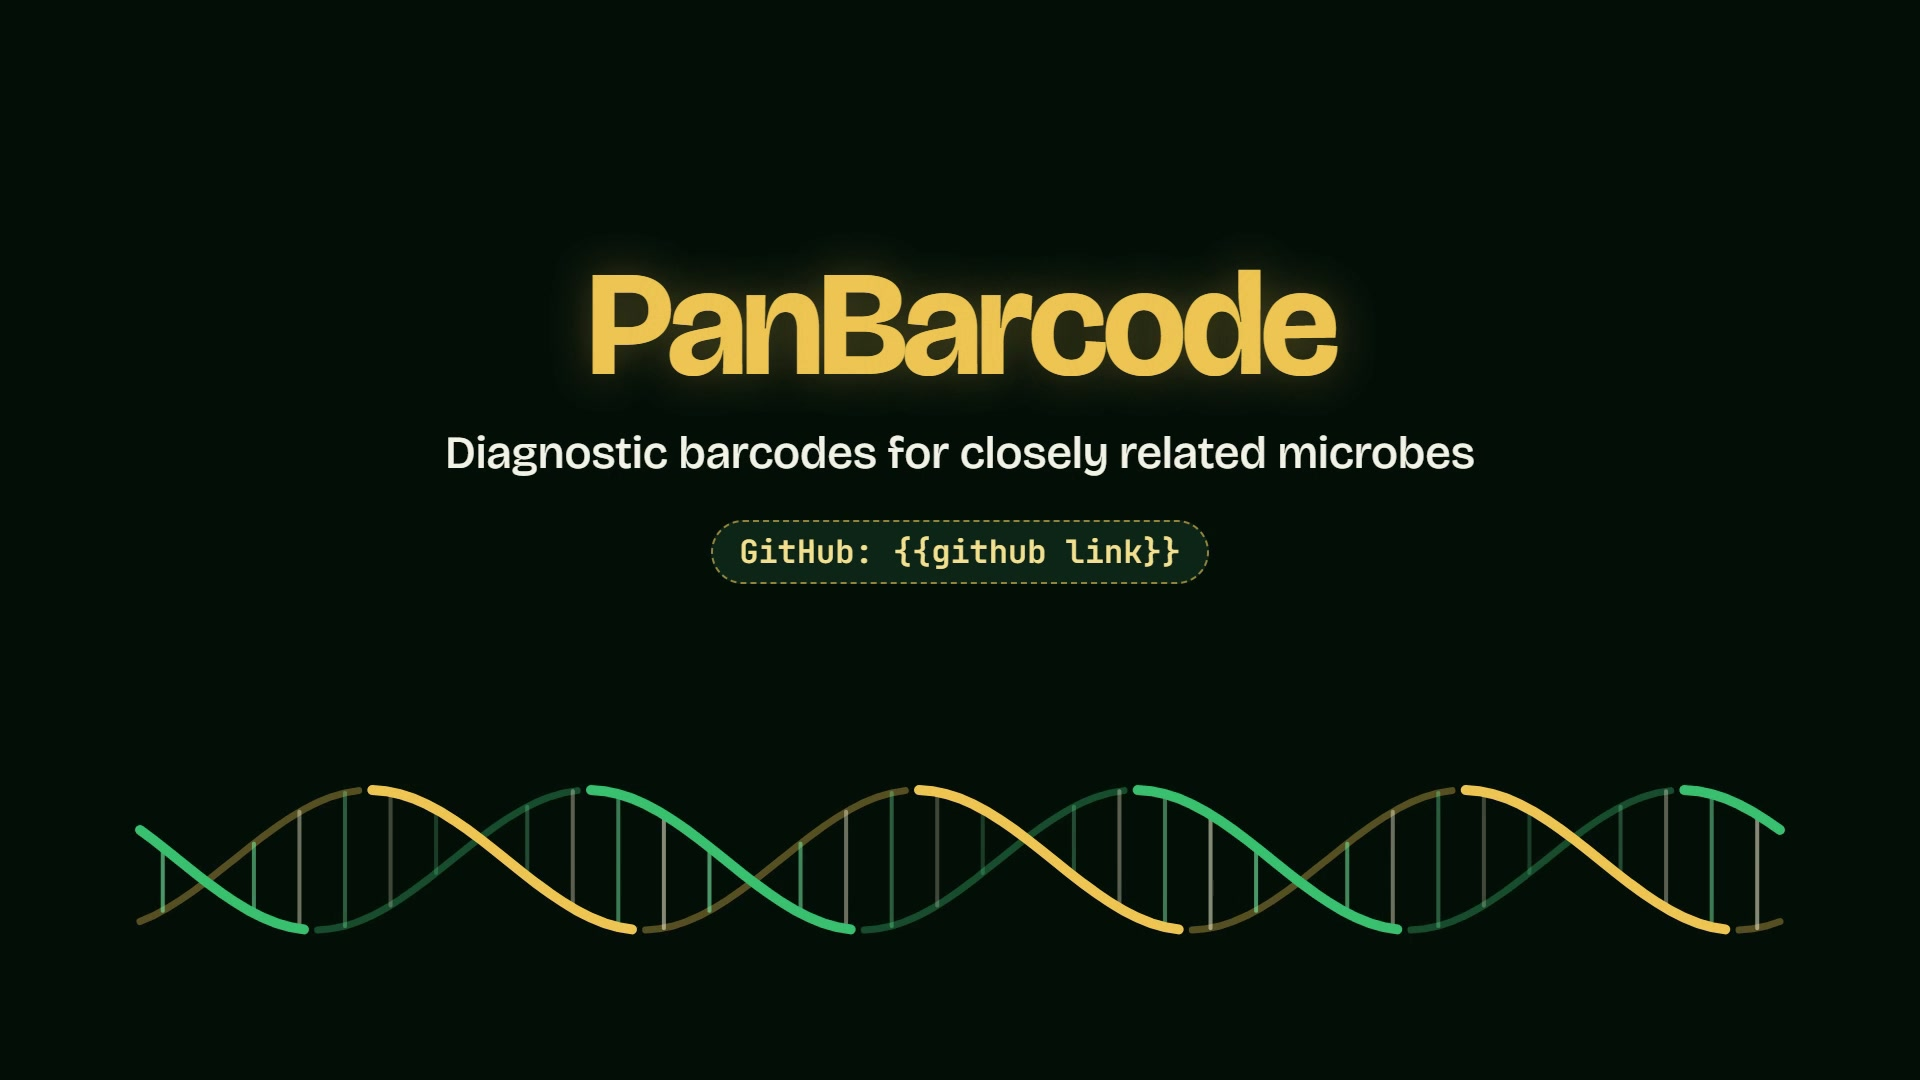
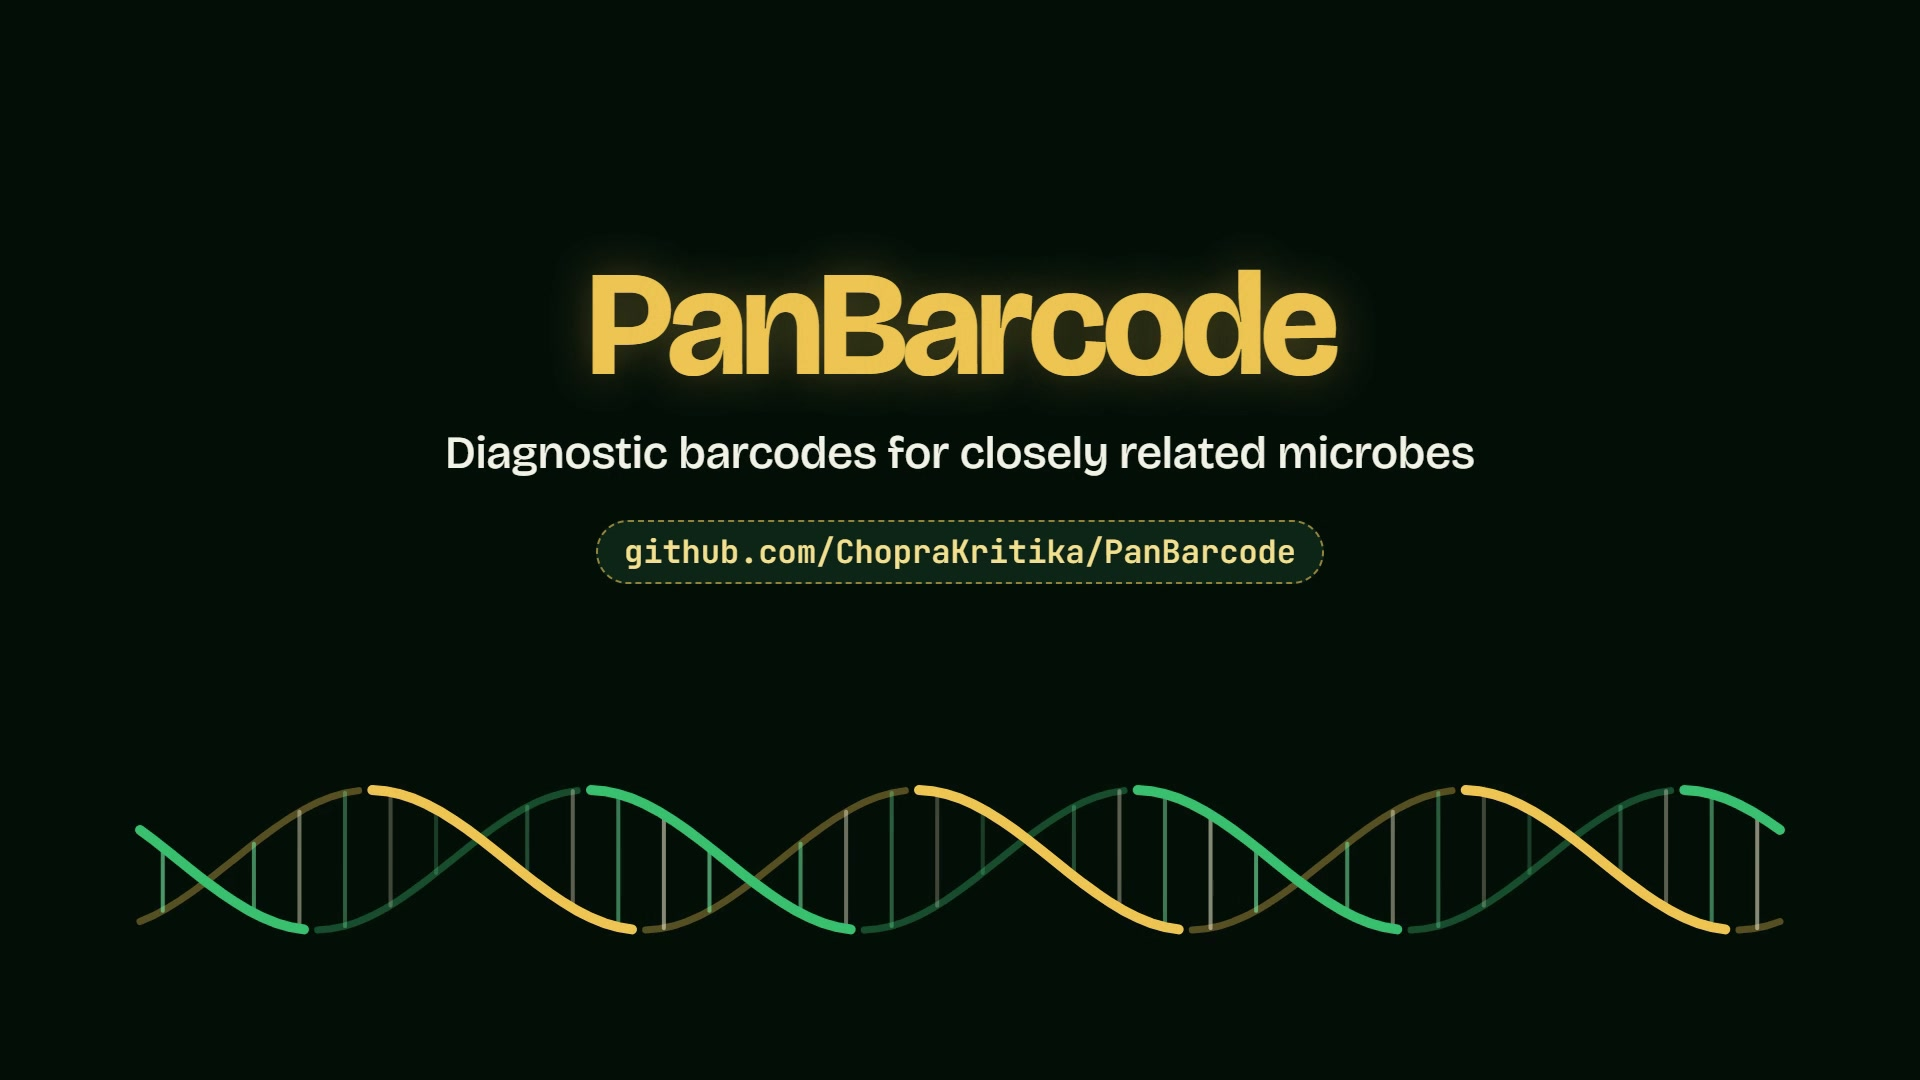
Update video cover link and remove placeholder text

Changed region(s): [[0.3125, 0.4889, 0.6875, 0.55]]

diff --git a/docs/index.html b/docs/index.html
@@ -984,7 +984,7 @@ video::-webkit-media-controls-enclosure{background:transparent!important}
               <svg id="treeLi" viewBox="0 0 340 196" role="img" aria-label="Known markers split the 7 strains into two groups: race 1 (ag171, at142, JCP043, TG-JCP043-Pacbio) and an unresolved group without the marker (AT141, al185, 744085), where race 4 and race 2 cannot be told apart"></svg>
             </figure>
             <figure class="tcol best">
-              <figcaption class="sc-h"><b>PanBarcode</b><span>Best barcode M18451 · 1–2 diagnostic positions</span></figcaption>
+              <figcaption class="sc-h"><b>PanBarcode</b><span>Best barcode M18451 · 1-2 diagnostic positions</span></figcaption>
               <svg id="treePb" viewBox="0 0 340 196" role="img" aria-label="The PanBarcode tree separates three branches: race 1 (ag171, at142, JCP043, TG-JCP043-Pacbio, identical), race 4 (AT141, al185) and race 2 (744085)"></svg>
             </figure>
           </div>
@@ -1022,12 +1022,6 @@ video::-webkit-media-controls-enclosure{background:transparent!important}
         <div class="io-card hi"><b>Primers</b><span>On the conserved anchors</span></div>
         <div class="io-card hi"><b>Diagnostic positions</b><span>And the closest other strain</span></div></div>
     </div>
-    <h3 class="use-h">Example command <span class="todo-pill">TODO</span></h3>
-    <div class="code">
-      <!-- TODO: replace the line below with the example command copied exactly from the repository README -->
-      <pre id="cmd"><code># TODO: paste the example command exactly as it appears in the repository README</code></pre>
-      <button type="button" class="copy" id="copyCmd" aria-label="Copy the example command"><span>Copy</span></button>
-    </div>
     <div class="links">
       <a class="btn btn-xl" data-link="github" href="https://github.com/ChopraKritika/PanBarcode" target="_blank" rel="noopener"><svg viewBox="0 0 16 16" aria-hidden="true"><path fill="currentColor" d="M8 0C3.58 0 0 3.58 0 8c0 3.54 2.29 6.53 5.47 7.59.4.07.55-.17.55-.38 0-.19-.01-.82-.01-1.49-2.01.37-2.53-.49-2.69-.94-.09-.23-.48-.94-.82-1.13-.28-.15-.68-.52-.01-.53.63-.01 1.08.58 1.23.82.72 1.21 1.87.87 2.33.66.07-.52.28-.87.51-1.07-1.78-.2-3.64-.89-3.64-3.95 0-.87.31-1.59.82-2.15-.08-.2-.36-1.02.08-2.12 0 0 .67-.21 2.2.82.64-.18 1.32-.27 2-.27.68 0 1.36.09 2 .27 1.53-1.04 2.2-.82 2.2-.82.44 1.1.16 1.92.08 2.12.51.56.82 1.27.82 2.15 0 3.07-1.87 3.75-3.65 3.95.29.25.54.73.54 1.48 0 1.07-.01 1.93-.01 2.2 0 .21.15.46.55.38A8.013 8.013 0 0016 8c0-4.42-3.58-8-8-8z"/></svg>View PanBarcode on GitHub</a>
     </div>
@@ -1038,7 +1032,7 @@ video::-webkit-media-controls-enclosure{background:transparent!important}
       <div class="avatar"><img src="assets/kritika_chopra.jpg" alt="Kritika Chopra" width="180" height="180" onerror="this.parentNode.textContent='KC'"></div>
       <div>
         <h3 class="about-name">Kritika Chopra</h3>
-        <p class="about-text">Many genomes, one graph, and one question: what tells these strains apart? I love puzzles like that, and I love explaining them in creative ways. I’m a computational biologist finishing my master’s in Plant Pathology at UW–Madison. I spend my days between code and biology, and I enjoy making both make sense to people outside either world.</p>
+        <p class="about-text">Many genomes, one graph, and one question: what tells these strains apart? I love puzzles like that, and I love explaining them in creative ways. I’m a computational biologist finishing my master’s in Plant Pathology at UW-Madison. I spend my days between code and biology, and I enjoy making both make sense to people outside either world.</p>
         <p class="about-text">Beyond my research, I teach coding workshops for researchers, run social media for plant-health outreach, and am turning the plant disease triangle into a board game, because good science should be fun to share.</p>
         <div class="chips2"><span>Reproducible pipelines</span><span>Data visualization</span><span>Science communication</span><span>Pangenomics</span><span>Comparative genomics</span><span>Phylogenetics</span></div>
         <div class="links about-links">
@@ -1057,7 +1051,7 @@ video::-webkit-media-controls-enclosure{background:transparent!important}
 
 const D = {
   library:[
-    {t:"lactucae",host:"lettuce",count:24,loci:1,bc:"M098",len:"1,246 bp",snps:"1–2",gap:"3 bases",n:"7 vs 90 genomes"},
+    {t:"lactucae",host:"lettuce",count:24,loci:1,bc:"M098",len:"1,246 bp",snps:"1-2",gap:"3 bases",n:"7 vs 90 genomes"},
     {t:"lycopersici",host:"tomato"},{t:"cubense",host:"banana"},{t:"melonis",host:"melon"},
     {t:"niveum",host:"watermelon"},{t:"vasinfectum",host:"cotton"}]
 };
